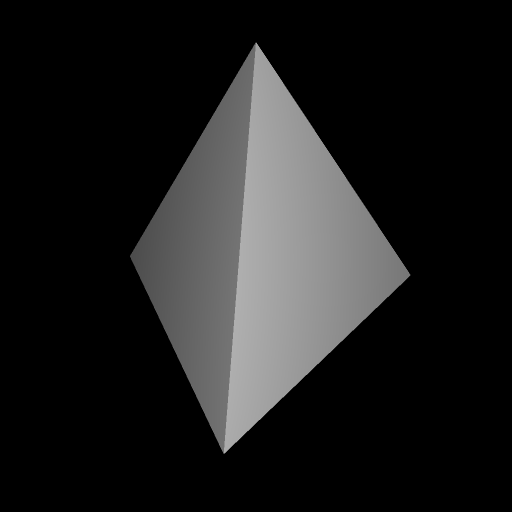
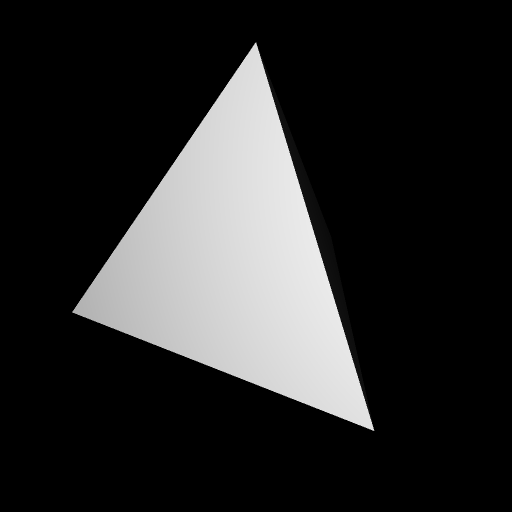
Add TetrahedronVertexDown

Changed region(s): [[0.125, 0.0938, 0.8125, 0.875]]

diff --git a/Imagine.Scenes/Scene.cs b/Imagine.Scenes/Scene.cs
@@ -134,22 +134,36 @@ public static class Scene
 	public static IScene SphereWithRadius(double radius) =>
 		new Sphere(radius);
 
-	public static IScene Tetrahedron() =>
-		TetrahedronWithCircumradius(1D);
+	public static IScene TetrahedronFaceDownWithCircumradius(double circumradius) =>
+		TetrahedronFaceDownWithInradius(circumradius / 3D);
 
-	public static IScene TetrahedronWithCircumradius(double circumradius) =>
-		TetrahedronWithInradius(circumradius / 3D);
-
-	public static IScene TetrahedronWithInradius(double inradius)
+	public static IScene TetrahedronFaceDownWithInradius(double inradius)
 	{
-		var dihedralAngle = double.Acos(1D / 3D);
-		var azimuthStep = 2D * double.Pi / 3D;
+		var theta0 = double.Pi;
+		var theta1 = double.Acos(1D / 3D);
+		var deltaPhi = double.Pi / 3D;
 
 		return Polyhedron(
-			new Vector3Spherical(inradius, 0D, double.Pi),
-			new Vector3Spherical(inradius, 0D * azimuthStep, dihedralAngle),
-			new Vector3Spherical(inradius, 1D * azimuthStep, dihedralAngle),
-			new Vector3Spherical(inradius, 2D * azimuthStep, dihedralAngle));
+			new Vector3Spherical(inradius, 0D, theta0),
+			new Vector3Spherical(inradius, 0D * deltaPhi, theta1),
+			new Vector3Spherical(inradius, 2D * deltaPhi, theta1),
+			new Vector3Spherical(inradius, 4D * deltaPhi, theta1));
+	}
+
+	public static IScene TetrahedronVertexDownWithCircumradius(double circumradius) =>
+		TetrahedronVertexDownWithInradius(circumradius / 3D);
+
+	public static IScene TetrahedronVertexDownWithInradius(double inradius)
+	{
+		var theta0 = double.Acos(-1D / 3D);
+		var theta1 = 0D;
+		var deltaPhi = double.Pi / 3D;
+
+		return Polyhedron(
+			new Vector3Spherical(inradius, 1D * deltaPhi, theta0),
+			new Vector3Spherical(inradius, 3D * deltaPhi, theta0),
+			new Vector3Spherical(inradius, 5D * deltaPhi, theta0),
+			new Vector3Spherical(inradius, 0D, theta1));
 	}
 
 	public static IScene Union(params List<IScene> scenes) =>

diff --git a/Imagine.Tests/ProjectorTests.cs b/Imagine.Tests/ProjectorTests.cs
@@ -21,7 +21,6 @@ public class ProjectorTests
 	private static readonly IScene BoundingSphere = Scene.Sphere().Transparent();
 	private static readonly IScene Cylinder = Scene.Cylinder(new(0D, 0D, 1D), 0.5D);
 	private static readonly IScene Sphere = Scene.SphereWithRadius(SphereRadius);
-	private static readonly IScene Tetrahedron = Scene.Tetrahedron().Rotated(11D * double.Pi / 24D);
 
 	private static readonly Dictionary<string, IScene> Scenes =
 		new()
@@ -117,7 +116,13 @@ public class ProjectorTests
 			},
 			{
 				"tetrahedron",
-				Tetrahedron
+				Scene.TetrahedronFaceDownWithCircumradius(1D)
+			},
+			{
+				"tetrahedron-union",
+				Scene.Union(
+					Scene.TetrahedronFaceDownWithCircumradius(1D),
+					Scene.TetrahedronVertexDownWithCircumradius(1D))
 			},
 		};
 
